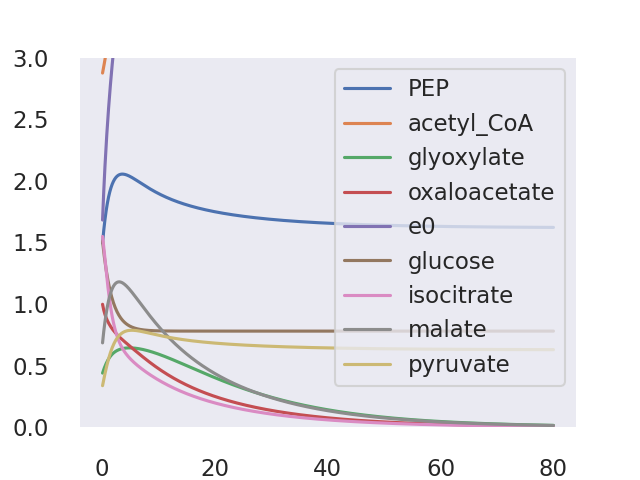
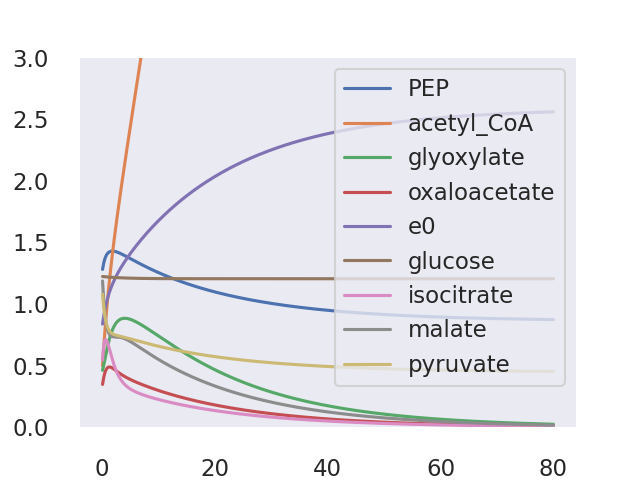
Changed Network Format

diff --git a/metabolicpd/life/network.py b/metabolicpd/life/network.py
@@ -103,6 +103,7 @@ class Metabolic_Graph:
                 metabolites.append(ele)
         new_unique_metabolites = list(dict.fromkeys(metabolites))
         num_mtb = len(new_unique_metabolites)
+        # TODO: remove num_edges since its never used
         self._num_edges = self.network.shape[0]
 
         if mass is None:
@@ -117,7 +118,6 @@ class Metabolic_Graph:
             self.flux = flux
 
         if ffunc is None:
-            # self.ffunc = lambda mass, idx: np.exp(mass[idx] / (mass[idx] + 1))
             self.ffunc = lambda mass, idx: util.hill(mass[idx])
         else:
             self.ffunc = ffunc
@@ -178,7 +178,7 @@ class Metabolic_Graph:
         # Generate lookup tables for s matrix functions
         # TODO: Check with Chris that generating this once will not break edge cases
         # TODO: Check if columns will always be in this order
-        for row in self.network[["tail", "head", "uber"]].itertuples():
+        for row in self.network[["tail", "head", "uberPos", "uberNeg"]].itertuples():
             row_idx = row.Index
             sub_str = self.mtb[np.isin(self.mtb["name"], row.tail.split(", "))]["index"]
             prod_snk = self.mtb[np.isin(self.mtb["name"], row.head.split(", "))][
@@ -196,18 +196,16 @@ class Metabolic_Graph:
                 self.hyper_edges[row_idx, sub_str] = -1
                 self.hyper_edges[row_idx, prod_snk] = 1
 
-            u_m = row.uber.split(", ")
-            for uber in u_m:
-                # there should probably be some checking that happens so we don't duplicate the code in the if statements
-                if uber[-1] == "+":  # check the last term in the entry, enhancer
-                    uber_mods[
-                        row.Index, self.mtb[self.mtb["name"] == uber[:-2]]["index"]
-                    ] = 1
-                elif uber[-1] == "-":  # check the last term in the entry, enhancer
-                    uber_mods[
-                        row.Index, self.mtb[self.mtb["name"] == uber[:-2]]["index"]
-                    ] = -1
+            # Next two loops read in inhibiters(uNeg) and enhancers(uPos)
+            u_p = row.uberPos.split(", ")
+            u_n = row.uberNeg.split(", ")
+            for uber in u_p:
+                uber_mods[row.Index, self.mtb[self.mtb["name"] == uber]["index"]] = 1
 
+            for uber in u_n:
+                uber_mods[row.Index, self.mtb[self.mtb["name"] == uber]["index"]] = -1
+
+        # TODO: Condense uber_mods and uber_enhancers/inhibiters
         self.uber_enhancers = np.nonzero(uber_mods == 1)
         self.uber_inhibiters = np.nonzero(uber_mods == -1)
 
@@ -242,7 +240,7 @@ class Metabolic_Graph:
 
         # Compute diagonal for the mass
         mass_diag = np.zeros((self._num_edges, self._num_edges))
-        for row in self.network[["tail", "head", "uber"]].itertuples():
+        for row in self.network[["tail", "head", "uberPos", "uberNeg"]].itertuples():
             row_index = row.Index
             idxs = self.substrates[row_index]
             min_sub = self.min_func(mass, idxs)

diff --git a/metabolicpd/examples/example1.py b/metabolicpd/examples/example1.py
@@ -8,7 +8,7 @@ if __name__ == "__main__":
     s = network.Metabolic_Graph(
         file="data/simple_pd_network.xlsx",
         mass=None,  # Makes the masses random via constructor
-        flux=np.random.default_rng().uniform(0.1, 0.8, 28),
+        flux=None,
         source_weights=None,
         t_0=0,
         t=15,

diff --git a/metabolicpd/life/virtual_nodes.py b/metabolicpd/life/virtual_nodes.py
@@ -1,0 +1,4 @@
+# import pandas as pd
+
+if __name__ == "__main__":
+    print("Hello")
